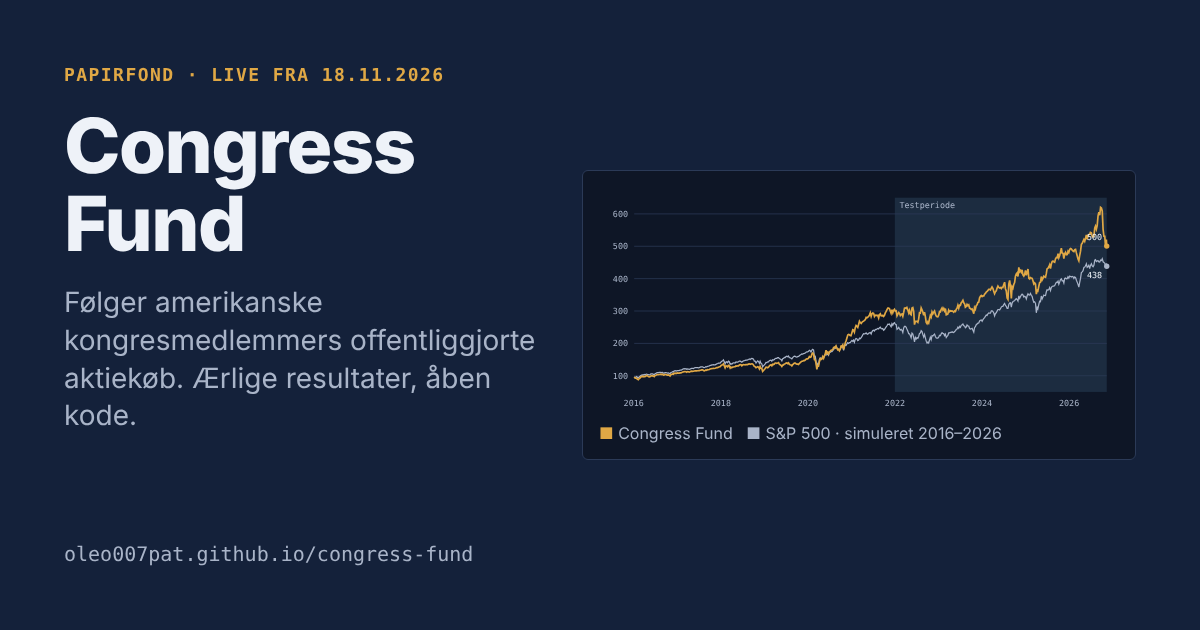
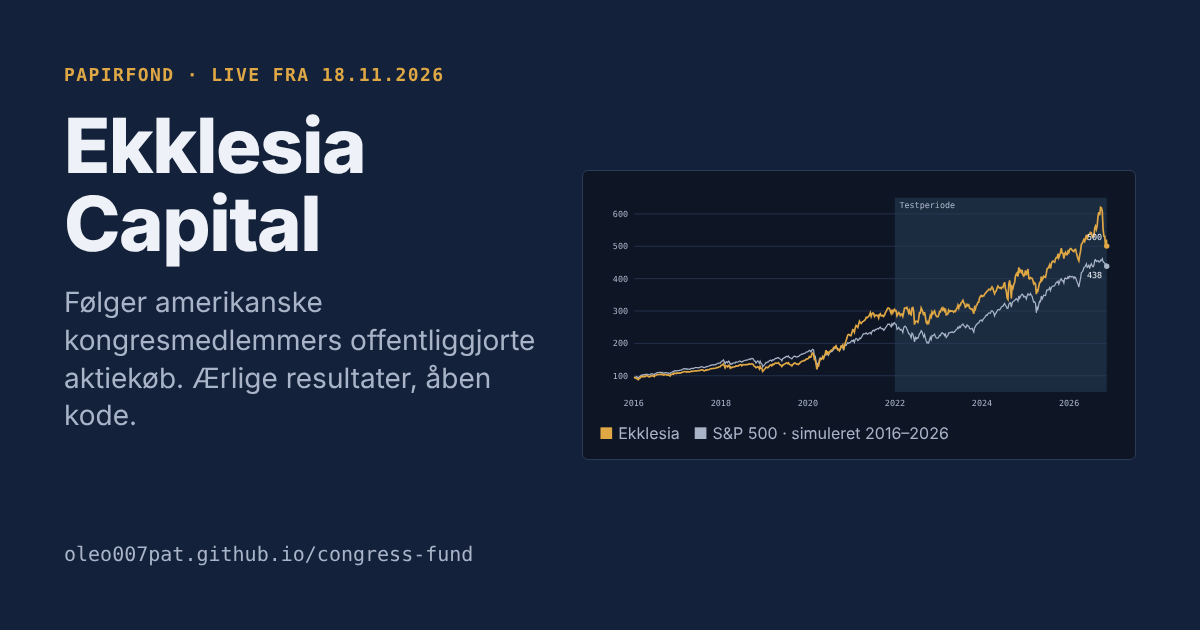
Hjemmeside: fonden hedder nu Ekklesia Capital
Navnet efter Athens folkeforsamling. Nyt delingsbillede og FAQ om navnet.

Claude-Session: https://claude.ai/code/session_01K5CPpdgQfFkF6JzkxvuTQb

Changed region(s): [[0.0308, 0.181, 0.37, 0.4222], [0.5242, 0.6635, 0.8325, 0.7238]]

diff --git a/docs/index.html b/docs/index.html
@@ -3,10 +3,10 @@
 <head>
 <meta charset="utf-8">
 <meta name="viewport" content="width=device-width, initial-scale=1, viewport-fit=cover">
-<title>Congress Fund</title>
+<title>Ekklesia Capital</title>
 <meta name="description" content="En regelbaseret papirfond, der følger amerikanske kongresmedlemmers offentliggjorte aktiekøb. Ærlige resultater, åben kode og en live portefølje.">
 <meta property="og:type" content="website">
-<meta property="og:title" content="Congress Fund">
+<meta property="og:title" content="Ekklesia Capital">
 <meta property="og:description" content="En regelbaseret papirfond, der følger amerikanske kongresmedlemmers offentliggjorte aktiekøb. Ærlige resultater, åben kode og en live portefølje.">
 <meta property="og:url" content="https://oleo007pat.github.io/congress-fund/">
 <meta property="og:image" content="https://oleo007pat.github.io/congress-fund/assets/og.png">
@@ -233,7 +233,7 @@ footer .brand{color:var(--band-ink)}
 
 <header class="nav">
   <div class="wrap">
-    <a class="brand" href="index.html" aria-label="Congress Fund, forside"><svg viewBox="0 0 28 28" aria-hidden="true"><rect class="mk-bg" x="1" y="1" width="26" height="26" rx="3"/><path class="mk-roof" d="M6 11.5 14 6l8 5.5z"/><path class="mk-col" d="M8.5 13.5v7.5M12.2 13.5v7.5M15.8 13.5v7.5M19.5 13.5v7.5M6 22.4h16"/></svg>Congress Fund</a>
+    <a class="brand" href="index.html" aria-label="Ekklesia Capital, forside"><svg viewBox="0 0 28 28" aria-hidden="true"><rect class="mk-bg" x="1" y="1" width="26" height="26" rx="3"/><path class="mk-roof" d="M6 11.5 14 6l8 5.5z"/><path class="mk-col" d="M8.5 13.5v7.5M12.2 13.5v7.5M15.8 13.5v7.5M19.5 13.5v7.5M6 22.4h16"/></svg>Ekklesia Capital</a>
     <nav aria-label="Hovedmenu"><ul>
       <li><a href="#strategi">Strategien</a></li>
       <li><a href="#resultater">Resultater</a></li>
@@ -251,7 +251,7 @@ footer .brand{color:var(--band-ink)}
     <div class="hero-copy">
       <span class="pill"><i></i>Live papirfond fra 18. november 2026</span>
       <h1>Aktiestrategien, der følger Kongressens egne handler</h1>
-      <p class="lede">Congress Fund køber de aktier, som medlemmer af det amerikanske Repræsentanternes Hus selv har købt, når handlen bliver offentlig. Reglerne er faste, hver beslutning logges, og al kode og data ligger åbent.</p>
+      <p class="lede">Ekklesia Capital køber de aktier, som medlemmer af det amerikanske Repræsentanternes Hus selv har købt, når handlen bliver offentlig. Reglerne er faste, hver beslutning logges, og al kode og data ligger åbent.</p>
       <div class="btns">
         <a class="btn primary" href="#live">Se porteføljen live</a>
         <a class="btn ghost" href="#resultater">Se resultaterne</a>
@@ -290,7 +290,7 @@ footer .brand{color:var(--band-ink)}
   <div class="sec-head prose">
     <span class="label">Investeringsidéen</span>
     <h2 id="h-ide">Offentlig information, brugt med disciplin</h2>
-    <p>Siden 2012 har STOCK Act pålagt medlemmer af Kongressen at offentliggøre deres aktiehandler inden for 45 dage. Kongressens medlemmer sidder tæt på lovgivning, høringer og budgetter. Congress Fund omsætter deres indberetninger til en regelbaseret portefølje uden menneskelige skøn.</p>
+    <p>Siden 2012 har STOCK Act pålagt medlemmer af Kongressen at offentliggøre deres aktiehandler inden for 45 dage. Kongressens medlemmer sidder tæt på lovgivning, høringer og budgetter. Ekklesia Capital omsætter deres indberetninger til en regelbaseret portefølje uden menneskelige skøn.</p>
   </div>
   <div class="pillars">
     <div class="pillar">
@@ -342,8 +342,8 @@ footer .brand{color:var(--band-ink)}
   <div class="perf">
     <figure class="card" style="margin:0">
       <div class="card-head"><h3>Værdi af 100 kr. investeret i januar 2016</h3>
-        <div class="legend"><span><i style="background:var(--accent)"></i>Congress Fund</span><span><i style="background:var(--muted)"></i>S&amp;P 500</span><span><i class="shade"></i>Testperiode</span></div></div>
-      <div class="chart-scroll"><svg id="eq" viewBox="0 0 680 300" role="img" aria-label="Simuleret værdi af Congress Fund og S&amp;P 500 fra 2016 til 2026" style="width:100%;min-width:520px;height:auto"></svg></div>
+        <div class="legend"><span><i style="background:var(--accent)"></i>Ekklesia</span><span><i style="background:var(--muted)"></i>S&amp;P 500</span><span><i class="shade"></i>Testperiode</span></div></div>
+      <div class="chart-scroll"><svg id="eq" viewBox="0 0 680 300" role="img" aria-label="Simuleret værdi af Ekklesia Capital og S&amp;P 500 fra 2016 til 2026" style="width:100%;min-width:520px;height:auto"></svg></div>
       <figcaption>Simuleret, efter handelsomkostninger på 0,1 % pr. handel. Uden forvaltningsgebyr.</figcaption>
     </figure>
     <div class="card">
@@ -363,7 +363,7 @@ footer .brand{color:var(--band-ink)}
     <div class="card-head"><h3>Afkast pr. kalenderår</h3><span class="label">Simuleret</span></div>
     <div class="table-scroll"><table class="years">
       <thead><tr><th></th><th class="r">2016</th><th class="r">2017</th><th class="r">2018</th><th class="r">2019</th><th class="r">2020</th><th class="r">2021</th><th class="r">2022</th><th class="r">2023</th><th class="r">2024</th><th class="r">2025</th><th class="r">2026*</th></tr></thead>
-      <tbody class="num"><tr><th>Congress Fund, %</th><td class="r">+6,7</td><td class="r">+19,4</td><td class="r">−8,1</td><td class="r">+29,2</td><td class="r">+47,3</td><td class="r">+36,6</td><td class="r">−7,6</td><td class="r">+23,3</td><td class="r">+16,8</td><td class="r">+17,7</td><td class="r">+4,7</td></tr><tr><th>S&amp;P 500, %</th><td class="r">+14,5</td><td class="r">+21,7</td><td class="r">−5,0</td><td class="r">+31,1</td><td class="r">+18,5</td><td class="r">+28,6</td><td class="r">−18,2</td><td class="r">+26,2</td><td class="r">+24,9</td><td class="r">+17,7</td><td class="r">+9,4</td></tr><tr><th>Forskel, procentpoint</th><td class="r neg">−7,8</td><td class="r neg">−2,4</td><td class="r neg">−3,1</td><td class="r neg">−2,0</td><td class="r pos">+28,8</td><td class="r pos">+7,9</td><td class="r pos">+10,6</td><td class="r neg">−2,8</td><td class="r neg">−8,1</td><td class="r neg">−0,1</td><td class="r neg">−4,7</td></tr></tbody>
+      <tbody class="num"><tr><th>Ekklesia, %</th><td class="r">+6,7</td><td class="r">+19,4</td><td class="r">−8,1</td><td class="r">+29,2</td><td class="r">+47,3</td><td class="r">+36,6</td><td class="r">−7,6</td><td class="r">+23,3</td><td class="r">+16,8</td><td class="r">+17,7</td><td class="r">+4,7</td></tr><tr><th>S&amp;P 500, %</th><td class="r">+14,5</td><td class="r">+21,7</td><td class="r">−5,0</td><td class="r">+31,1</td><td class="r">+18,5</td><td class="r">+28,6</td><td class="r">−18,2</td><td class="r">+26,2</td><td class="r">+24,9</td><td class="r">+17,7</td><td class="r">+9,4</td></tr><tr><th>Forskel, procentpoint</th><td class="r neg">−7,8</td><td class="r neg">−2,4</td><td class="r neg">−3,1</td><td class="r neg">−2,0</td><td class="r pos">+28,8</td><td class="r pos">+7,9</td><td class="r pos">+10,6</td><td class="r neg">−2,8</td><td class="r neg">−8,1</td><td class="r neg">−0,1</td><td class="r neg">−4,7</td></tr></tbody>
     </table></div>
     <p class="note" style="margin-top:10px">2016–2021 er kalibreringsperioden, hvor reglerne blev valgt. 2022–2026 er testperioden. 2026 dækker til og med 16. november.</p>
   </div>
@@ -412,7 +412,7 @@ footer .brand{color:var(--band-ink)}
   </div>
   <div class="status-box">
     <span class="big">Ikke åben</span>
-    <p>Congress Fund tager ikke imod penge. Det er en papirfond, der kører offentligt for at teste strategien på data, som ingen har set. Den åbner kun, hvis den både slår markedet over tid og får de nødvendige tilladelser.</p>
+    <p>Ekklesia Capital tager ikke imod penge. Det er en papirfond, der kører offentligt for at teste strategien på data, som ingen har set. Den åbner kun, hvis den både slår markedet over tid og får de nødvendige tilladelser.</p>
   </div>
   <div class="ways">
     <article class="way">
@@ -452,11 +452,12 @@ footer .brand{color:var(--band-ink)}
   </div>
   <div class="faq">
     <details><summary>Hvorfor viser I, at strategien ikke slår markedet?</summary><div class="ans"><p>Fordi det er resultatet. Første version af backtesten viste +106 % mod markedets +66 %. Den uafhængige kontrol fandt, at tallet skyldtes en målefejl: testporteføljen startede tom. Rettet gav strategien det samme som markedet. En fond, der skjuler den slags, fortjener ingen tillid.</p></div></details>
-    <details><summary>Er det lovligt at handle på kongresmedlemmers aktiehandler?</summary><div class="ans"><p>Indberetningerne er offentlige, og enhver kan læse dem og handle på dem for egen regning. Amerikansk lov forbyder dog at bruge selve indberetningerne til kommercielle formål, bortset fra nyhedsmedier. Derfor er Congress Fund en papirfond og ikke et kommercielt produkt. Dette er ikke juridisk rådgivning.</p></div></details>
+    <details><summary>Er det lovligt at handle på kongresmedlemmers aktiehandler?</summary><div class="ans"><p>Indberetningerne er offentlige, og enhver kan læse dem og handle på dem for egen regning. Amerikansk lov forbyder dog at bruge selve indberetningerne til kommercielle formål, bortset fra nyhedsmedier. Derfor er Ekklesia Capital en papirfond og ikke et kommercielt produkt. Dette er ikke juridisk rådgivning.</p></div></details>
     <details><summary>Hvorfor køber fonden ikke på medlemmets handelsdag?</summary><div class="ans"><p>Fordi handlen først er kendt, når indberetningen bliver offentlig, i median 28 dage senere. At bruge handelsdatoen i en backtest ville give et kunstigt godt resultat, som ingen kunne have opnået.</p></div></details>
     <details><summary>Hvad med at følge kun de dygtigste medlemmer?</summary><div class="ans"><p>Det er testet. Hvis man kun kopierer de 20 % af medlemmerne med de bedste tidligere resultater, får man +89,6 % i testperioden. Men 75 % af porteføljen kom fra to medlemmer, og uden det største af dem faldt afkastet til +19,2 %. Justeret for de 128 varianter, der blev prøvet, forsvinder fordelen. Tidligere vindere fortsatte ikke med at vinde.</p></div></details>
     <details><summary>Hvorfor er Senatet ikke med?</summary><div class="ans"><p>Senatets database blokerer automatiske hentninger. Senatet kommer med i en senere version, hvis der findes en lovlig datakilde.</p></div></details>
-    <details><summary>Hvem står bag?</summary><div class="ans"><p>Congress Fund er et uafhængigt forskningsprojekt. Det er bygget i Python med offentlige data fra Repræsentanternes Hus og kurser fra Alpaca. Det har ingen tilknytning til Kongressen eller til nogen kapitalforvalter.</p></div></details>
+    <details><summary>Hvorfor hedder fonden Ekklesia?</summary><div class="ans"><p>Ekklesia var folkeforsamlingen i det antikke Athen, hvor borgerne mødtes og traf beslutninger i fællesskab. Fonden følger det moderne modstykke, Kongressen, og bygger på samme idé: at de folkevalgtes handlinger skal være synlige for alle.</p></div></details>
+    <details><summary>Hvem står bag?</summary><div class="ans"><p>Ekklesia Capital er et uafhængigt forskningsprojekt. Det er bygget i Python med offentlige data fra Repræsentanternes Hus og kurser fra Alpaca. Det har ingen tilknytning til Kongressen eller til nogen kapitalforvalter.</p></div></details>
   </div>
 </section>
 </div>
@@ -466,14 +467,14 @@ footer .brand{color:var(--band-ink)}
   <div class="wrap">
     <div class="foot-grid">
       <div style="display:grid;gap:10px;align-content:start">
-        <a class="brand" href="index.html"><svg viewBox="0 0 28 28" aria-hidden="true"><rect class="mk-bg" x="1" y="1" width="26" height="26" rx="3"/><path class="mk-roof" d="M6 11.5 14 6l8 5.5z"/><path class="mk-col" d="M8.5 13.5v7.5M12.2 13.5v7.5M15.8 13.5v7.5M19.5 13.5v7.5M6 22.4h16"/></svg>Congress Fund</a>
+        <a class="brand" href="index.html"><svg viewBox="0 0 28 28" aria-hidden="true"><rect class="mk-bg" x="1" y="1" width="26" height="26" rx="3"/><path class="mk-roof" d="M6 11.5 14 6l8 5.5z"/><path class="mk-col" d="M8.5 13.5v7.5M12.2 13.5v7.5M15.8 13.5v7.5M19.5 13.5v7.5M6 22.4h16"/></svg>Ekklesia Capital</a>
         <p>En regelbaseret papirfond, der følger amerikanske kongresmedlemmers offentliggjorte aktiekøb.</p>
       </div>
       <div><h4>Fonden</h4><ul><li><a href="#strategi">Strategien</a></li><li><a href="#resultater">Resultater</a></li><li><a href="#live">Live portefølje</a></li><li><a href="#risiko">Risiko</a></li></ul></div>
       <div><h4>Dokumentation</h4><ul><li><a href="research.html">Research og metode</a></li><li><a href="https://github.com/Oleo007pat/congress-fund/blob/main/reports/backtest_v1.md">Backtest-rapport</a></li><li><a href="https://github.com/Oleo007pat/congress-fund">Kode på GitHub</a></li><li><a href="https://disclosures-clerk.house.gov/FinancialDisclosure">Kilde: House Clerk</a></li></ul></div>
     </div>
     <div class="legal">
-      <p><b style="color:var(--band-ink)">Vigtig information.</b> Congress Fund er en papirfond, der handler med fiktive penge. Den er ikke en investeringsforening, en alternativ investeringsfond eller et finansielt produkt, og den tager ikke imod penge. Intet på denne side er investeringsrådgivning eller en opfordring til at købe eller sælge værdipapirer.</p>
+      <p><b style="color:var(--band-ink)">Vigtig information.</b> Ekklesia Capital er en papirfond, der handler med fiktive penge. Den er ikke en investeringsforening, en alternativ investeringsfond eller et finansielt produkt, og den tager ikke imod penge. Intet på denne side er investeringsrådgivning eller en opfordring til at købe eller sælge værdipapirer.</p>
       <p>Historiske og simulerede afkast er ingen garanti for fremtidige afkast. Simulerede resultater har kendte begrænsninger, som er beskrevet i research-afsnittet. Kilder: U.S. House of Representatives, Office of the Clerk; Alpaca Market Data.</p>
     </div>
   </div>
@@ -533,11 +534,11 @@ footer .brand{color:var(--band-ink)}
       return;}
     var tr=D.total_return||{},lr=D.last_run||{},h='';
     h+='<div class="live-kpis">'+
-      '<div><b class="num">'+pct(tr.fund_pct)+'</b><span>Congress Fund siden '+esc(D.start_date)+'</span></div>'+
+      '<div><b class="num">'+pct(tr.fund_pct)+'</b><span>Ekklesia siden '+esc(D.start_date)+'</span></div>'+
       '<div><b class="num">'+pct(tr.spy_pct)+'</b><span>S&amp;P 500 i samme periode</span></div>'+
       '<div><b class="num">'+(D.positions?D.positions.length:0)+'</b><span>åbne positioner</span></div>'+
       '<div><b class="num" style="font-size:1.05rem;font-family:var(--mono);font-stretch:100%">'+esc(String(lr.time_utc||'').slice(0,16).replace('T',' '))+'</b><span>seneste kørsel (UTC) · '+esc(lr.status)+'</span></div></div>';
-    h+='<figure class="card" style="margin:0"><div class="card-head"><h3>Værdi, indeks 100 ved start</h3><div class="legend"><span><i style="background:var(--accent)"></i>Congress Fund</span><span><i style="background:var(--muted)"></i>S&amp;P 500</span></div></div><div class="chart-scroll"><svg id="livechart" viewBox="0 0 680 240" role="img" aria-label="Papirfondens værdi mod S&amp;P 500" style="width:100%;min-width:480px;height:auto"></svg></div></figure>';
+    h+='<figure class="card" style="margin:0"><div class="card-head"><h3>Værdi, indeks 100 ved start</h3><div class="legend"><span><i style="background:var(--accent)"></i>Ekklesia</span><span><i style="background:var(--muted)"></i>S&amp;P 500</span></div></div><div class="chart-scroll"><svg id="livechart" viewBox="0 0 680 240" role="img" aria-label="Papirfondens værdi mod S&amp;P 500" style="width:100%;min-width:480px;height:auto"></svg></div></figure>';
     if(D.positions&&D.positions.length){
       h+='<div><h3 style="margin-bottom:8px">Åbne positioner</h3><div class="table-scroll"><table><thead><tr><th>Aktie</th><th>Medlem</th><th>Indberettet</th><th>Købt</th><th class="r">Afkast</th><th>Planlagt salg</th></tr></thead><tbody class="num">';
       D.positions.forEach(function(p){h+='<tr><td><b>'+esc(p.ticker)+'</b></td><td>'+esc(p.member)+'</td><td>'+esc(p.filed)+'</td><td>'+esc(p.entered)+'</td><td class="r">'+pct(p.return_pct)+'</td><td>'+esc(p.planned_exit)+'</td></tr>';});

diff --git a/site/src/index.body.html b/site/src/index.body.html
@@ -2,7 +2,7 @@
 
 <header class="nav">
   <div class="wrap">
-    <a class="brand" href="index.html" aria-label="Congress Fund, forside">%%MARK%%Congress Fund</a>
+    <a class="brand" href="index.html" aria-label="Ekklesia Capital, forside">%%MARK%%Ekklesia Capital</a>
     <nav aria-label="Hovedmenu"><ul>
       <li><a href="#strategi">Strategien</a></li>
       <li><a href="#resultater">Resultater</a></li>
@@ -20,7 +20,7 @@
     <div class="hero-copy">
       <span class="pill"><i></i>Live papirfond fra 18. november 2026</span>
       <h1>Aktiestrategien, der følger Kongressens egne handler</h1>
-      <p class="lede">Congress Fund køber de aktier, som medlemmer af det amerikanske Repræsentanternes Hus selv har købt, når handlen bliver offentlig. Reglerne er faste, hver beslutning logges, og al kode og data ligger åbent.</p>
+      <p class="lede">Ekklesia Capital køber de aktier, som medlemmer af det amerikanske Repræsentanternes Hus selv har købt, når handlen bliver offentlig. Reglerne er faste, hver beslutning logges, og al kode og data ligger åbent.</p>
       <div class="btns">
         <a class="btn primary" href="#live">Se porteføljen live</a>
         <a class="btn ghost" href="#resultater">Se resultaterne</a>
@@ -59,7 +59,7 @@
   <div class="sec-head prose">
     <span class="label">Investeringsidéen</span>
     <h2 id="h-ide">Offentlig information, brugt med disciplin</h2>
-    <p>Siden 2012 har STOCK Act pålagt medlemmer af Kongressen at offentliggøre deres aktiehandler inden for 45 dage. Kongressens medlemmer sidder tæt på lovgivning, høringer og budgetter. Congress Fund omsætter deres indberetninger til en regelbaseret portefølje uden menneskelige skøn.</p>
+    <p>Siden 2012 har STOCK Act pålagt medlemmer af Kongressen at offentliggøre deres aktiehandler inden for 45 dage. Kongressens medlemmer sidder tæt på lovgivning, høringer og budgetter. Ekklesia Capital omsætter deres indberetninger til en regelbaseret portefølje uden menneskelige skøn.</p>
   </div>
   <div class="pillars">
     <div class="pillar">
@@ -111,8 +111,8 @@
   <div class="perf">
     <figure class="card" style="margin:0">
       <div class="card-head"><h3>Værdi af 100 kr. investeret i januar 2016</h3>
-        <div class="legend"><span><i style="background:var(--accent)"></i>Congress Fund</span><span><i style="background:var(--muted)"></i>S&amp;P 500</span><span><i class="shade"></i>Testperiode</span></div></div>
-      <div class="chart-scroll"><svg id="eq" viewBox="0 0 680 300" role="img" aria-label="Simuleret værdi af Congress Fund og S&amp;P 500 fra 2016 til 2026" style="width:100%;min-width:520px;height:auto"></svg></div>
+        <div class="legend"><span><i style="background:var(--accent)"></i>Ekklesia</span><span><i style="background:var(--muted)"></i>S&amp;P 500</span><span><i class="shade"></i>Testperiode</span></div></div>
+      <div class="chart-scroll"><svg id="eq" viewBox="0 0 680 300" role="img" aria-label="Simuleret værdi af Ekklesia Capital og S&amp;P 500 fra 2016 til 2026" style="width:100%;min-width:520px;height:auto"></svg></div>
       <figcaption>Simuleret, efter handelsomkostninger på 0,1 % pr. handel. Uden forvaltningsgebyr.</figcaption>
     </figure>
     <div class="card">
@@ -181,7 +181,7 @@
   </div>
   <div class="status-box">
     <span class="big">Ikke åben</span>
-    <p>Congress Fund tager ikke imod penge. Det er en papirfond, der kører offentligt for at teste strategien på data, som ingen har set. Den åbner kun, hvis den både slår markedet over tid og får de nødvendige tilladelser.</p>
+    <p>Ekklesia Capital tager ikke imod penge. Det er en papirfond, der kører offentligt for at teste strategien på data, som ingen har set. Den åbner kun, hvis den både slår markedet over tid og får de nødvendige tilladelser.</p>
   </div>
   <div class="ways">
     <article class="way">
@@ -221,11 +221,12 @@
   </div>
   <div class="faq">
     <details><summary>Hvorfor viser I, at strategien ikke slår markedet?</summary><div class="ans"><p>Fordi det er resultatet. Første version af backtesten viste +106 % mod markedets +66 %. Den uafhængige kontrol fandt, at tallet skyldtes en målefejl: testporteføljen startede tom. Rettet gav strategien det samme som markedet. En fond, der skjuler den slags, fortjener ingen tillid.</p></div></details>
-    <details><summary>Er det lovligt at handle på kongresmedlemmers aktiehandler?</summary><div class="ans"><p>Indberetningerne er offentlige, og enhver kan læse dem og handle på dem for egen regning. Amerikansk lov forbyder dog at bruge selve indberetningerne til kommercielle formål, bortset fra nyhedsmedier. Derfor er Congress Fund en papirfond og ikke et kommercielt produkt. Dette er ikke juridisk rådgivning.</p></div></details>
+    <details><summary>Er det lovligt at handle på kongresmedlemmers aktiehandler?</summary><div class="ans"><p>Indberetningerne er offentlige, og enhver kan læse dem og handle på dem for egen regning. Amerikansk lov forbyder dog at bruge selve indberetningerne til kommercielle formål, bortset fra nyhedsmedier. Derfor er Ekklesia Capital en papirfond og ikke et kommercielt produkt. Dette er ikke juridisk rådgivning.</p></div></details>
     <details><summary>Hvorfor køber fonden ikke på medlemmets handelsdag?</summary><div class="ans"><p>Fordi handlen først er kendt, når indberetningen bliver offentlig, i median 28 dage senere. At bruge handelsdatoen i en backtest ville give et kunstigt godt resultat, som ingen kunne have opnået.</p></div></details>
     <details><summary>Hvad med at følge kun de dygtigste medlemmer?</summary><div class="ans"><p>Det er testet. Hvis man kun kopierer de 20 % af medlemmerne med de bedste tidligere resultater, får man +89,6 % i testperioden. Men 75 % af porteføljen kom fra to medlemmer, og uden det største af dem faldt afkastet til +19,2 %. Justeret for de 128 varianter, der blev prøvet, forsvinder fordelen. Tidligere vindere fortsatte ikke med at vinde.</p></div></details>
     <details><summary>Hvorfor er Senatet ikke med?</summary><div class="ans"><p>Senatets database blokerer automatiske hentninger. Senatet kommer med i en senere version, hvis der findes en lovlig datakilde.</p></div></details>
-    <details><summary>Hvem står bag?</summary><div class="ans"><p>Congress Fund er et uafhængigt forskningsprojekt. Det er bygget i Python med offentlige data fra Repræsentanternes Hus og kurser fra Alpaca. Det har ingen tilknytning til Kongressen eller til nogen kapitalforvalter.</p></div></details>
+    <details><summary>Hvorfor hedder fonden Ekklesia?</summary><div class="ans"><p>Ekklesia var folkeforsamlingen i det antikke Athen, hvor borgerne mødtes og traf beslutninger i fællesskab. Fonden følger det moderne modstykke, Kongressen, og bygger på samme idé: at de folkevalgtes handlinger skal være synlige for alle.</p></div></details>
+    <details><summary>Hvem står bag?</summary><div class="ans"><p>Ekklesia Capital er et uafhængigt forskningsprojekt. Det er bygget i Python med offentlige data fra Repræsentanternes Hus og kurser fra Alpaca. Det har ingen tilknytning til Kongressen eller til nogen kapitalforvalter.</p></div></details>
   </div>
 </section>
 </div>
@@ -235,14 +236,14 @@
   <div class="wrap">
     <div class="foot-grid">
       <div style="display:grid;gap:10px;align-content:start">
-        <a class="brand" href="index.html">%%MARK%%Congress Fund</a>
+        <a class="brand" href="index.html">%%MARK%%Ekklesia Capital</a>
         <p>En regelbaseret papirfond, der følger amerikanske kongresmedlemmers offentliggjorte aktiekøb.</p>
       </div>
       <div><h4>Fonden</h4><ul><li><a href="#strategi">Strategien</a></li><li><a href="#resultater">Resultater</a></li><li><a href="#live">Live portefølje</a></li><li><a href="#risiko">Risiko</a></li></ul></div>
       <div><h4>Dokumentation</h4><ul><li><a href="research.html">Research og metode</a></li><li><a href="https://github.com/Oleo007pat/congress-fund/blob/main/reports/backtest_v1.md">Backtest-rapport</a></li><li><a href="https://github.com/Oleo007pat/congress-fund">Kode på GitHub</a></li><li><a href="https://disclosures-clerk.house.gov/FinancialDisclosure">Kilde: House Clerk</a></li></ul></div>
     </div>
     <div class="legal">
-      <p><b style="color:var(--band-ink)">Vigtig information.</b> Congress Fund er en papirfond, der handler med fiktive penge. Den er ikke en investeringsforening, en alternativ investeringsfond eller et finansielt produkt, og den tager ikke imod penge. Intet på denne side er investeringsrådgivning eller en opfordring til at købe eller sælge værdipapirer.</p>
+      <p><b style="color:var(--band-ink)">Vigtig information.</b> Ekklesia Capital er en papirfond, der handler med fiktive penge. Den er ikke en investeringsforening, en alternativ investeringsfond eller et finansielt produkt, og den tager ikke imod penge. Intet på denne side er investeringsrådgivning eller en opfordring til at købe eller sælge værdipapirer.</p>
       <p>Historiske og simulerede afkast er ingen garanti for fremtidige afkast. Simulerede resultater har kendte begrænsninger, som er beskrevet i research-afsnittet. Kilder: U.S. House of Representatives, Office of the Clerk; Alpaca Market Data.</p>
     </div>
   </div>
@@ -302,11 +303,11 @@
       return;}
     var tr=D.total_return||{},lr=D.last_run||{},h='';
     h+='<div class="live-kpis">'+
-      '<div><b class="num">'+pct(tr.fund_pct)+'</b><span>Congress Fund siden '+esc(D.start_date)+'</span></div>'+
+      '<div><b class="num">'+pct(tr.fund_pct)+'</b><span>Ekklesia siden '+esc(D.start_date)+'</span></div>'+
       '<div><b class="num">'+pct(tr.spy_pct)+'</b><span>S&amp;P 500 i samme periode</span></div>'+
       '<div><b class="num">'+(D.positions?D.positions.length:0)+'</b><span>åbne positioner</span></div>'+
       '<div><b class="num" style="font-size:1.05rem;font-family:var(--mono);font-stretch:100%">'+esc(String(lr.time_utc||'').slice(0,16).replace('T',' '))+'</b><span>seneste kørsel (UTC) · '+esc(lr.status)+'</span></div></div>';
-    h+='<figure class="card" style="margin:0"><div class="card-head"><h3>Værdi, indeks 100 ved start</h3><div class="legend"><span><i style="background:var(--accent)"></i>Congress Fund</span><span><i style="background:var(--muted)"></i>S&amp;P 500</span></div></div><div class="chart-scroll"><svg id="livechart" viewBox="0 0 680 240" role="img" aria-label="Papirfondens værdi mod S&amp;P 500" style="width:100%;min-width:480px;height:auto"></svg></div></figure>';
+    h+='<figure class="card" style="margin:0"><div class="card-head"><h3>Værdi, indeks 100 ved start</h3><div class="legend"><span><i style="background:var(--accent)"></i>Ekklesia</span><span><i style="background:var(--muted)"></i>S&amp;P 500</span></div></div><div class="chart-scroll"><svg id="livechart" viewBox="0 0 680 240" role="img" aria-label="Papirfondens værdi mod S&amp;P 500" style="width:100%;min-width:480px;height:auto"></svg></div></figure>';
     if(D.positions&&D.positions.length){
       h+='<div><h3 style="margin-bottom:8px">Åbne positioner</h3><div class="table-scroll"><table><thead><tr><th>Aktie</th><th>Medlem</th><th>Indberettet</th><th>Købt</th><th class="r">Afkast</th><th>Planlagt salg</th></tr></thead><tbody class="num">';
       D.positions.forEach(function(p){h+='<tr><td><b>'+esc(p.ticker)+'</b></td><td>'+esc(p.member)+'</td><td>'+esc(p.filed)+'</td><td>'+esc(p.entered)+'</td><td class="r">'+pct(p.return_pct)+'</td><td>'+esc(p.planned_exit)+'</td></tr>';});

diff --git a/docs/research.html b/docs/research.html
@@ -3,11 +3,11 @@
 <head>
 <meta charset="utf-8">
 <meta name="viewport" content="width=device-width, initial-scale=1, viewport-fit=cover">
-<title>Congress Fund Research</title>
-<meta name="description" content="Metode, datakvalitet, backtest og uafhængig fejlkontrol bag Congress Fund.">
+<title>Ekklesia Capital Research</title>
+<meta name="description" content="Metode, datakvalitet, backtest og uafhængig fejlkontrol bag Ekklesia Capital.">
 <meta property="og:type" content="website">
-<meta property="og:title" content="Congress Fund Research">
-<meta property="og:description" content="Metode, datakvalitet, backtest og uafhængig fejlkontrol bag Congress Fund.">
+<meta property="og:title" content="Ekklesia Capital Research">
+<meta property="og:description" content="Metode, datakvalitet, backtest og uafhængig fejlkontrol bag Ekklesia Capital.">
 <meta property="og:url" content="https://oleo007pat.github.io/congress-fund/research.html">
 <meta property="og:image" content="https://oleo007pat.github.io/congress-fund/assets/og.png">
 <meta name="twitter:card" content="summary_large_image">
@@ -166,7 +166,7 @@ footer{border-top:1px solid var(--rule);padding-block:28px 48px;color:var(--mute
 <div class="wrap">
 <header>
   <div class="topline">
-    <a class="label" href="index.html">← Congress Fund</a><span class="label">Research · Backtest v1 · Kontrolleret</span>
+    <a class="label" href="index.html">← Ekklesia Capital</a><span class="label">Research · Backtest v1 · Kontrolleret</span>
     <span class="label num">Data til 16. nov. 2026</span>
   </div>
 </header>

diff --git a/site/build.py b/site/build.py
@@ -98,7 +98,7 @@ def year_table(yearly: list) -> tuple[str, str]:
     fund = "".join(f'<td class="r">{f(y["strategy"])}</td>' for y in yearly)
     spy = "".join(f'<td class="r">{f(y["spy"])}</td>' for y in yearly)
     diff = "".join(f'<td class="r {"pos" if y["excess"] > 0 else "neg"}">{f(y["excess"])}</td>' for y in yearly)
-    rows = (f"<tr><th>Congress Fund, %</th>{fund}</tr><tr><th>S&amp;P 500, %</th>{spy}</tr>"
+    rows = (f"<tr><th>Ekklesia, %</th>{fund}</tr><tr><th>S&amp;P 500, %</th>{spy}</tr>"
             f"<tr><th>Forskel, procentpoint</th>{diff}</tr>")
     return head, rows
 
@@ -139,7 +139,7 @@ def main() -> None:
     body = (body.replace("%%MARK%%", MARK).replace("%%YEAR_HEAD%%", yh).replace("%%YEAR_ROWS%%", yr)
                 .replace("%%DATA%%", json.dumps(data, separators=(",", ":"))))
     assert "%%" not in body
-    title = "Congress Fund"
+    title = "Ekklesia Capital"
     desc = ("En regelbaseret papirfond, der følger amerikanske kongresmedlemmers offentliggjorte aktiekøb. "
             "Ærlige resultater, åben kode og en live portefølje.")
     (DOCS / "index.html").write_text(head(title, desc, "index.html", css) + body + "\n</body>\n</html>\n")
@@ -152,12 +152,12 @@ def main() -> None:
     r = re.sub(r"<script>\s*\(function\(\)\{\s*var root=document.getElementById\('live-root'\).*?</script>\s*", "", r, count=1, flags=re.S)
     r = r.replace('<a href="#live">live papirfond</a>', '<a href="index.html#live">live papirfond</a>')
     r = r.replace('<span class="label">Forskningsprojekt · Backtest v1 · Kontrolleret</span>',
-                  '<a class="label" href="index.html">← Congress Fund</a><span class="label">Research · Backtest v1 · Kontrolleret</span>')
-    assert "live-root" not in r and "index.html#live" in r and "← Congress Fund" in r
+                  '<a class="label" href="index.html">← Ekklesia Capital</a><span class="label">Research · Backtest v1 · Kontrolleret</span>')
+    assert "live-root" not in r and "index.html#live" in r and "← Ekklesia Capital" in r
     style = re.search(r"<style>(.*?)</style>", r, flags=re.S).group(1)
     rbody = r[r.index("</style>") + len("</style>"):]
-    rtitle = "Congress Fund Research"
-    rdesc = "Metode, datakvalitet, backtest og uafhængig fejlkontrol bag Congress Fund."
+    rtitle = "Ekklesia Capital Research"
+    rdesc = "Metode, datakvalitet, backtest og uafhængig fejlkontrol bag Ekklesia Capital."
     full = head(rtitle, rdesc, "research.html", style) + rbody.strip() + "\n</body>\n</html>\n"
     (DOCS / "research.html").write_text(full)
     (PREVIEW / "research.html").write_text(full)
